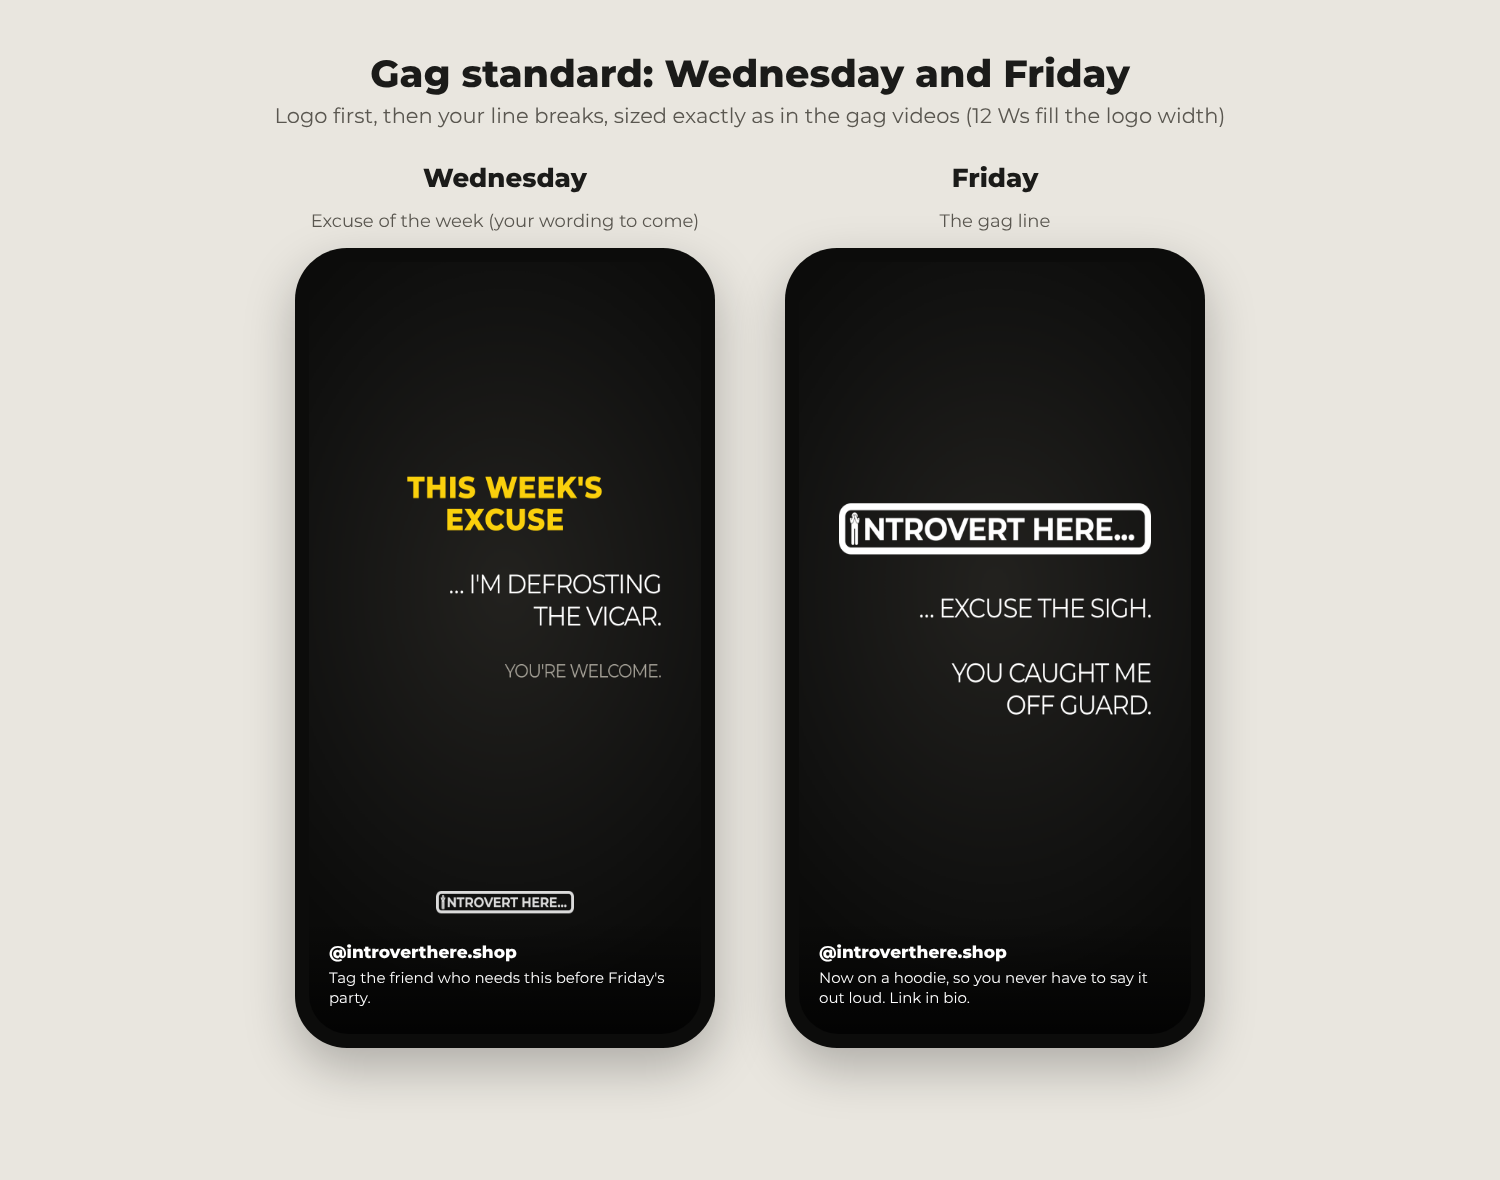
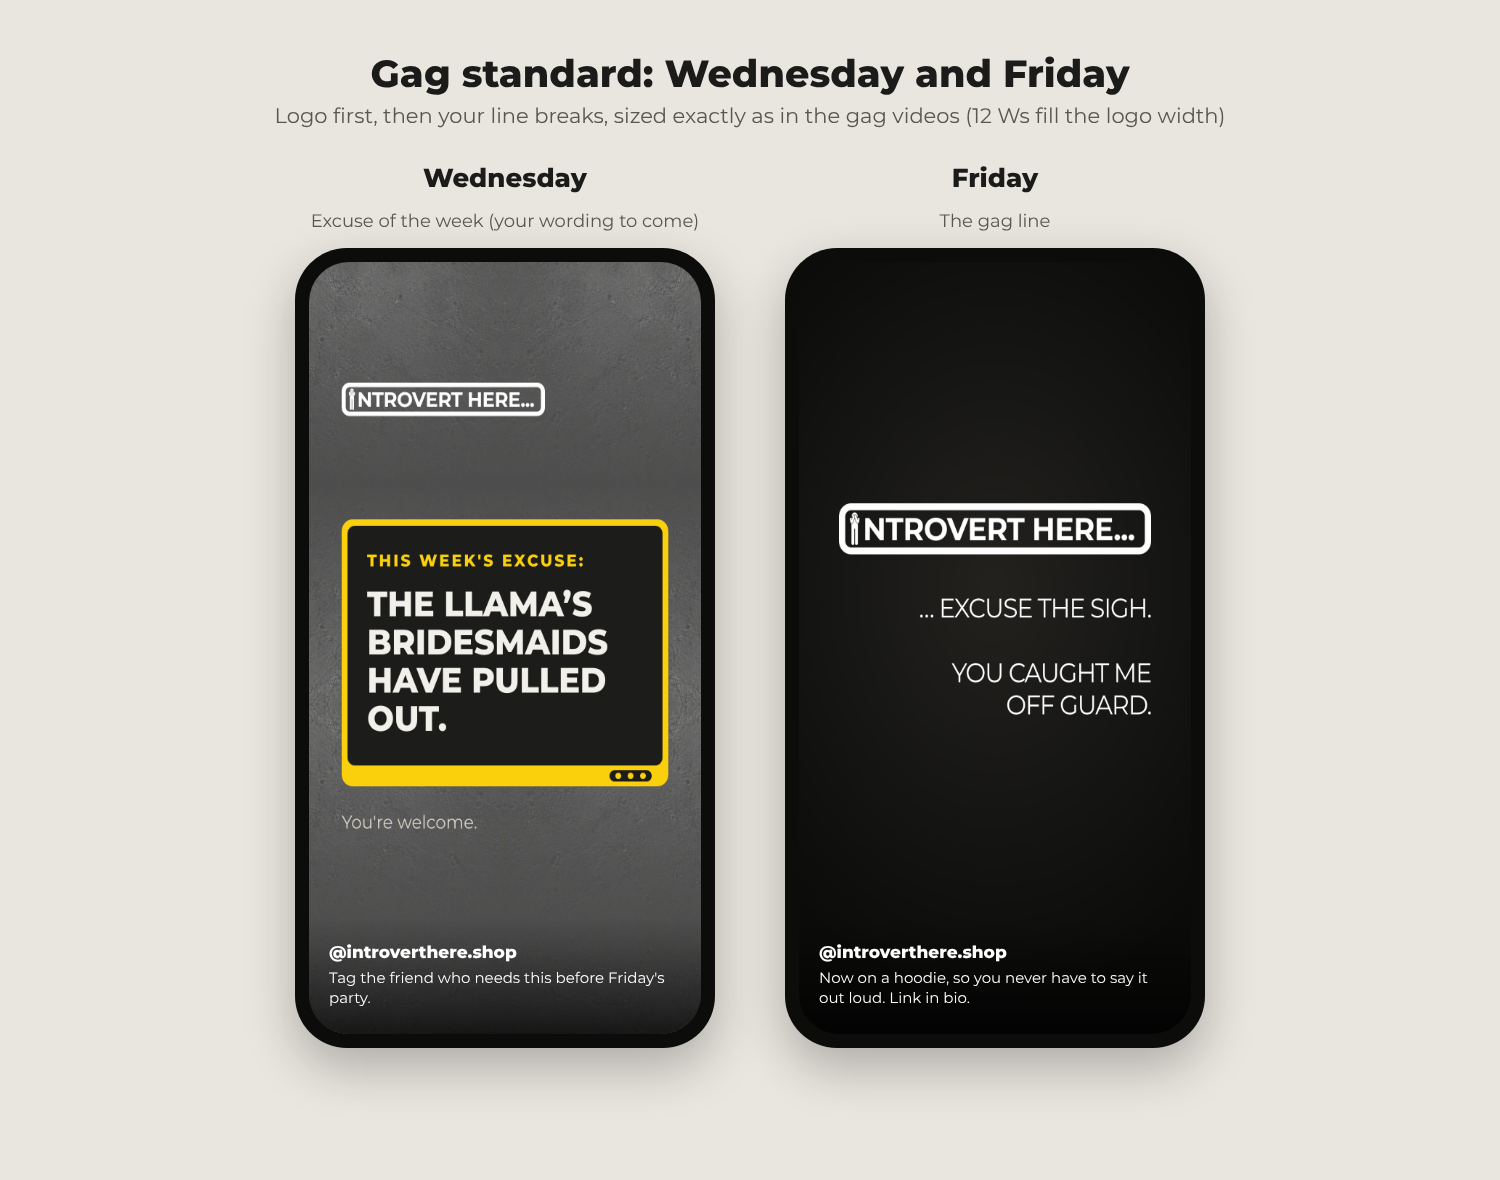
Excuse card in the site's Excuse Generator style
Claude-Session: https://claude.ai/code/session_0169XVAPzbah6JEo7dh2vsf6

Changed region(s): [[0.184, 0.2136, 0.4907, 0.8847]]

diff --git a/social/launch/mock/excusecard2.html b/social/launch/mock/excusecard2.html
@@ -1,0 +1,20 @@
+<!doctype html><html><head><meta charset="utf-8">
+<link href="https://fonts.googleapis.com/css2?family=Montserrat:wght@400;600;800&display=swap" rel="stylesheet">
+<style>*{margin:0;padding:0;box-sizing:border-box}
+html,body{width:1080px;height:1920px;overflow:hidden;font-family:Montserrat,sans-serif;color:#f2f0ea}
+.bg{position:absolute;inset:0;background:linear-gradient(rgba(255,255,255,.3),rgba(255,255,255,.3)),#121211 url(concrete.jpg) center top/1800px auto repeat}
+.logo{position:absolute;left:90px;top:300px;width:560px}
+.frame{position:absolute;left:90px;right:90px;top:640px;background:#fad00c;border-radius:30px;padding:16px 16px 52px}
+.in{background:#1c1c1a;border-radius:20px;padding:60px 54px 70px}
+.lab{font-weight:800;font-size:42px;letter-spacing:.14em;color:#fad00c;margin-bottom:34px}
+.ex{font-weight:800;font-size:88px;line-height:1.08;text-transform:uppercase}
+.dots{position:absolute;right:46px;bottom:12px;background:#1c1c1a;border-radius:16px;padding:6px 16px;display:flex;gap:18px}
+.dots i{width:16px;height:16px;border-radius:50%;background:#fad00c;display:block}
+.yw{position:absolute;left:90px;font-size:46px;color:#d8d4ca}
+</style></head><body><div class="bg"></div><img class="logo" src="logo-wide.png">
+<div class="frame" id="f"><div class="in"><div class="lab">THIS WEEK'S EXCUSE:</div><div class="ex" id="ex"></div></div><div class="dots"><i></i><i></i><i></i></div></div>
+<div class="yw" id="yw">You're welcome.</div>
+<script>
+document.getElementById('ex').textContent=new URLSearchParams(location.search).get('text')||"THE LLAMA’S BRIDESMAIDS HAVE PULLED OUT.";
+document.fonts.ready.then(()=>{document.getElementById('yw').style.top=(document.getElementById('f').getBoundingClientRect().bottom+60)+'px';document.title='ready'});
+</script></body></html>
